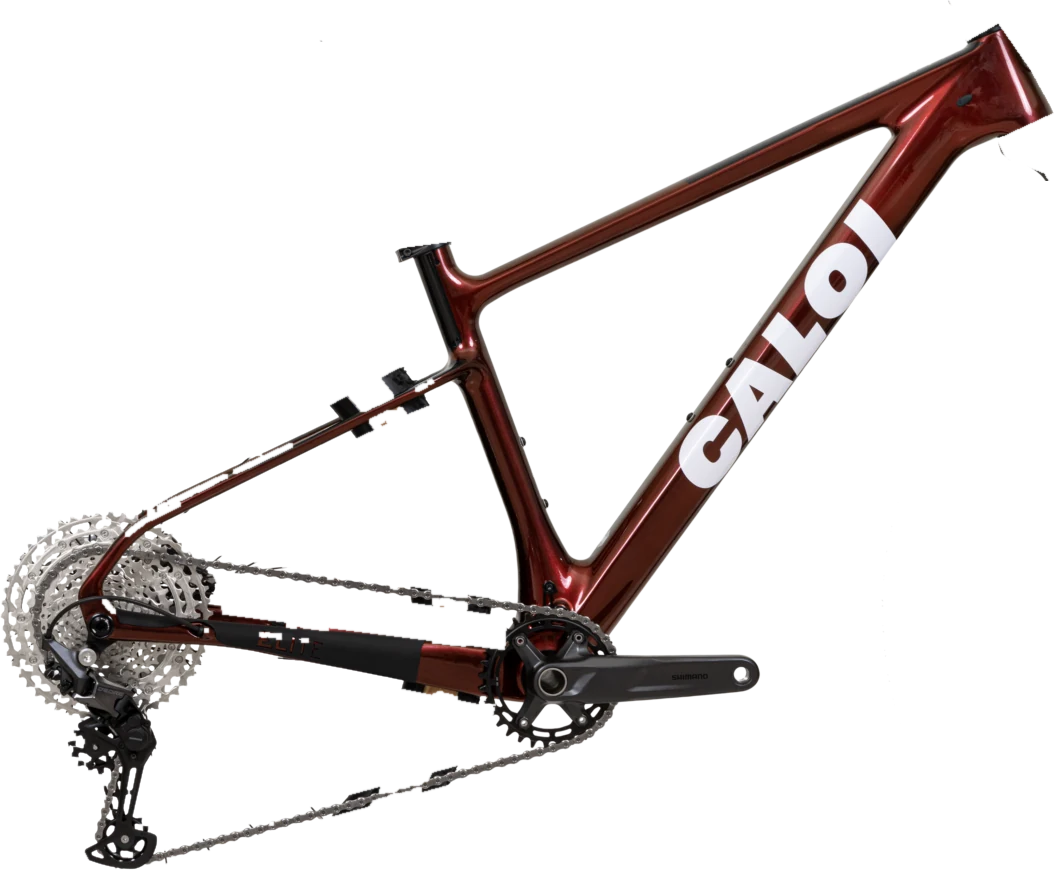
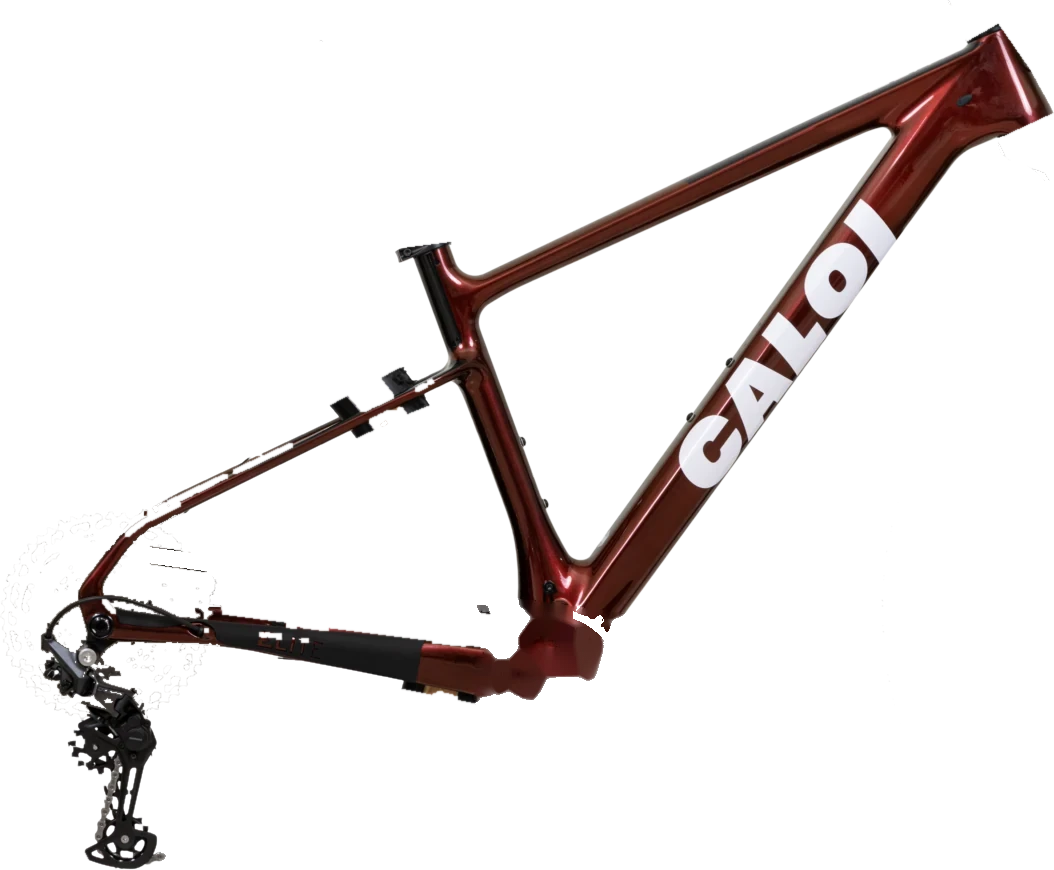
Transmissao animada: coroa e corrente giram, cassete com giro em velocidade, pedivela parado

Changed region(s): [[0.0, 0.5897, 0.7287, 0.9621], [0.1518, 0.9621, 0.2125, 0.9931]]

diff --git a/atual/assets/cena.js b/atual/assets/cena.js
@@ -17,6 +17,7 @@
   if (!gsap || !ST) {
     html.classList.add('sem-movimento');
     if (ab) ab.remove();
+    var dz = transmissao(); if (dz) dz(0, true);
     return;
   }
   gsap.registerPlugin(ST);
@@ -72,7 +73,7 @@
   /* rodas: o giro segue a distância percorrida; a versão borrada entra com a velocidade */
   function rodas() {
     var rg = $$('.parte.roda .g'), giros = $$('.parte.roda .giro'), coroa = $('.coroa-fundo');
-    var ult = 0, suave = 0;
+    var ult = 0, suave = 0, tr = transmissao();
     var setR = rg.map(function (el) { return gsap.quickSetter(el, 'rotation', 'deg'); });
     var setC = gsap.quickSetter(coroa, 'rotation', 'deg');
     var setO = giros.map(function (el) { return gsap.quickSetter(el, 'opacity'); });
@@ -82,10 +83,98 @@
       suave += (dv - suave) * 0.22;
       estado.vel = suave;
       setR.forEach(function (s) { s(a); });
+      if (tr) tr(a);
       setC(-a * 0.16);
       var o = Math.max(0, Math.min(1, (suave - 2.4) / 9));
       setO.forEach(function (s) { s(o); }); setN.forEach(function (s) { s(1 - o * 0.92); });
     });
+  }
+
+  /* transmissão: coroa, pedivela, pedais e corrente andando junto com a roda de trás.
+     Coordenadas da camada do quadro (1054x870, canvas com 960 de altura para o pedal não cortar). */
+  function transmissao() {
+    var fr = $('.tr-frente'), at = $('.tr-atras'); if (!fr || !at) return null;
+    var cf = fr.getContext('2d'), ca = at.getContext('2d'), W = fr.width, H = fr.height;
+    var C = [552.1, 681.2], RC = 66.5, RCOG = 78.5, PASSO = 13.125, ALT = 16;
+    var BR = 194.0, A0 = -1.83 * Math.PI / 180;               // pedivela: centro até o olho do pedal
+    var P0 = [150, 554.8], P3 = [160, 855.0];                 // pontas da corrente que anda (cassete e roldana)
+    function tang(P, cima) {
+      var dx = P[0] - C[0], dy = P[1] - C[1], d = Math.hypot(dx, dy), b = Math.atan2(dy, dx), g = Math.acos(RC / d);
+      var t1 = b + g, t2 = b - g, y1 = C[1] + RC * Math.sin(t1), y2 = C[1] + RC * Math.sin(t2);
+      return (cima ? y1 < y2 : y1 > y2) ? t1 : t2;
+    }
+    var th1 = tang(P0, true), th2 = tang(P3, false);
+    var T1 = [C[0] + RC * Math.cos(th1), C[1] + RC * Math.sin(th1)], T2 = [C[0] + RC * Math.cos(th2), C[1] + RC * Math.sin(th2)];
+    var L1 = Math.hypot(T1[0] - P0[0], T1[1] - P0[1]), d1 = [(T1[0] - P0[0]) / L1, (T1[1] - P0[1]) / L1];
+    var arco = th2 - th1; while (arco < 0) arco += Math.PI * 2;
+    var LA = arco * RC, L2 = Math.hypot(P3[0] - T2[0], P3[1] - T2[1]), d2 = [(P3[0] - T2[0]) / L2, (P3[1] - T2[1]) / L2];
+    var LT = L1 + LA + L2;
+    function ponto(u) {
+      if (u < L1) return [P0[0] + d1[0] * u, P0[1] + d1[1] * u];
+      if (u < L1 + LA) { var t = th1 + (u - L1) / RC; return [C[0] + RC * Math.cos(t), C[1] + RC * Math.sin(t)]; }
+      u -= L1 + LA; return [T2[0] + d2[0] * u, T2[1] + d2[1] * u];
+    }
+    var nomes = ['coroa', 'coroa-giro', 'pedivela', 'corrente', 'corrente-giro', 'cassete', 'cassete-giro'], im = {}, faltam = nomes.length, ok = false;
+    nomes.forEach(function (n) {
+      var i = new Image(); i.decoding = 'async';
+      i.onload = function () { if (--faltam === 0) { ok = true; desenha(ultA, true); } };
+      i.src = 'assets/cena/' + n + '.webp?v=2'; im[n] = i;
+    });
+    function pedal(c, x, y, fundo) {
+      c.save(); c.translate(x, y);
+      var g = c.createLinearGradient(0, -8, 0, 8);
+      if (fundo) { g.addColorStop(0, '#15171a'); g.addColorStop(1, '#0b0c0e'); }
+      else { g.addColorStop(0, '#34383f'); g.addColorStop(0.45, '#16181c'); g.addColorStop(1, '#262a30'); }
+      c.fillStyle = fundo ? '#0d0e10' : '#2b2f35';
+      for (var k = -3; k <= 3; k++) { if (!k) continue; var px = k * 12.5 - 1.2; c.fillRect(px, -10.5, 2.4, 3); c.fillRect(px, 7.5, 2.4, 3); }
+      c.beginPath(); c.moveTo(-44, -5); c.quadraticCurveTo(-44, -8, -40, -8); c.lineTo(40, -8); c.quadraticCurveTo(44, -8, 44, -5);
+      c.lineTo(44, 5); c.quadraticCurveTo(44, 8, 40, 8); c.lineTo(-40, 8); c.quadraticCurveTo(-44, 8, -44, 5); c.closePath();
+      c.fillStyle = g; c.fill();
+      if (!fundo) { c.strokeStyle = 'rgba(255,255,255,.10)'; c.lineWidth = 1; c.stroke(); }
+      c.beginPath(); c.arc(0, 0, 5.5, 0, Math.PI * 2); c.fillStyle = fundo ? '#1c1e21' : '#8d939b'; c.fill();
+      c.beginPath(); c.arc(0, 0, 2.2, 0, Math.PI * 2); c.fillStyle = fundo ? '#0b0c0e' : '#3a3e44'; c.fill();
+      c.restore();
+    }
+    function sprite(c, img, cx, cy, ang, ox, oy) {
+      c.save(); c.translate(cx, cy); c.rotate(ang); c.drawImage(img, -ox, -oy); c.restore();
+    }
+    function corrente(c, s, tile, alfa) {
+      var n0 = Math.floor(s / PASSO), fr0 = s - n0 * PASSO, hw = tile.width / 2;
+      c.save(); c.globalAlpha = alfa;
+      c.beginPath(); c.rect(147, 0, W, 745); c.rect(157, 745, W, H - 745); c.clip();
+      for (var k = -1; k * PASSO < LT + PASSO; k++) {
+        var u = k * PASSO + fr0, a = ponto(u), b = ponto(u + PASSO);
+        var g = k - n0, par = ((g % 2) + 2) % 2;
+        c.save(); c.translate(a[0], a[1]); c.rotate(Math.atan2(b[1] - a[1], b[0] - a[0]));
+        c.drawImage(tile, par * hw, 0, hw, tile.height, 0, -ALT / 2, Math.hypot(b[0] - a[0], b[1] - a[1]) + 0.6, ALT);
+        c.restore();
+      }
+      c.restore();
+    }
+    var ultA = 0, ultD = null, suave = 0;
+    function desenha(a, forca) {
+      if (!ok) { ultA = a; return; }
+      var dv = Math.abs(a - ultA); ultA = a; suave += (dv - suave) * 0.22;
+      if (!forca && a === ultD && suave < 0.01) return;
+      ultD = a;
+      var o = Math.max(0, Math.min(1, (suave - 2.4) / 9));
+      var s = a * Math.PI / 180 * RCOG, fi = s / RC;            // fi: ângulo da coroa (rad)
+      var dfi = suave * Math.PI / 180 * RCOG / RC;
+      cf.clearRect(0, 0, W, H); ca.clearRect(0, 0, W, H);
+      // cassete (atrás do quadro e do câmbio): a foto parada; com velocidade, o borrão de giro
+      ca.globalAlpha = 1 - o; ca.drawImage(im.cassete, 0, 488);
+      if (o > 0) { ca.globalAlpha = o; ca.drawImage(im['cassete-giro'], 0, 488); }
+      ca.globalAlpha = 1;
+      // pedivela e pedal ficam parados, como na foto; só a coroa e a corrente andam
+      cf.globalAlpha = 1 - o * 0.85; sprite(cf, im.coroa, C[0], C[1], fi, 80, 80);
+      if (o > 0) { cf.globalAlpha = o; sprite(cf, im['coroa-giro'], C[0], C[1], fi, 80, 80); }
+      cf.globalAlpha = 1;
+      if (o < 1) corrente(cf, s, im.corrente, 1);
+      if (o > 0) corrente(cf, 0, im['corrente-giro'], o);
+      sprite(cf, im.pedivela, C[0], C[1], 0, 230.1, 230.2);
+      pedal(cf, C[0] + BR * Math.cos(A0), C[1] + BR * Math.sin(A0), false);
+    }
+    return desenha;
   }
 
   /* palavra que gira no título (Text Rotate) */

diff --git a/atual/index.html b/atual/index.html
@@ -14,12 +14,16 @@
 <link rel="preload" href="assets/fontes/barlow-condensed-latin-800-italic.woff2" as="font" type="font/woff2" crossorigin>
 <link rel="preload" href="assets/fontes/inter-latin-400-normal.woff2" as="font" type="font/woff2" crossorigin>
 <link rel="stylesheet" href="assets/site.css">
-<link rel="stylesheet" href="assets/cena.css?v=7">
-<link rel="preload" as="image" href="assets/cena/quadro.webp">
+<link rel="stylesheet" href="assets/cena.css?v=10">
+<link rel="preload" as="image" href="assets/cena/quadro.webp?v=5">
+<link rel="preload" as="image" href="assets/cena/cassete.webp?v=2">
+<link rel="preload" as="image" href="assets/cena/coroa.webp?v=2">
+<link rel="preload" as="image" href="assets/cena/pedivela.webp?v=2">
+<link rel="preload" as="image" href="assets/cena/corrente.webp?v=2">
 <script src="assets/vendor/gsap.min.js" defer></script>
 <script src="assets/vendor/ScrollTrigger.min.js" defer></script>
 <script src="assets/vendor/lenis.min.js" defer></script>
-<script src="assets/cena.js?v=4" defer></script>
+<script src="assets/cena.js?v=8" defer></script>
 <script src="assets/app.js" defer></script>
 </head>
 <body>
@@ -67,7 +71,7 @@
           <a class="rot rot-rt" href="https://6afee227e12ae1f82abc1a2f--impactobike.netlify.app/c/pecas/rodas-e-pneus/"><b>Rodas e pneus</b><span>137 produtos →</span></a></div>
         <div class="parte roda" id="p-rf"><img src="assets/cena/roda-frente.webp?v=7" alt="" class="g" width="840" height="840"><img src="assets/cena/roda-frente-giro.webp?v=7" alt="" class="g giro" width="840" height="840"><img src="assets/cena/disco-frente.webp?v=6" alt="" class="fixo" width="840" height="840">
           <a class="rot rot-rf" href="https://6afee227e12ae1f82abc1a2f--impactobike.netlify.app/c/pecas/freios/"><b>Freios e discos</b><span>165 produtos →</span></a></div>
-        <div class="parte" id="p-qd"><img src="assets/cena/quadro.webp" alt="Bicicleta de carbono vinho com transmissão Shimano" width="1054" height="870">
+        <div class="parte" id="p-qd"><canvas class="tr tr-atras" width="1054" height="960" aria-hidden="true"></canvas><img src="assets/cena/quadro.webp?v=5" alt="Bicicleta de carbono vinho com transmissão Shimano" width="1054" height="870"><canvas class="tr tr-frente" width="1054" height="960" aria-hidden="true"></canvas>
           <a class="rot rot-qd1" href="https://6afee227e12ae1f82abc1a2f--impactobike.netlify.app/c/pecas/quadros-e-suspensoes/"><b>Quadros e suspensões</b><span>29 produtos →</span></a>
           <a class="rot rot-qd2" href="https://6afee227e12ae1f82abc1a2f--impactobike.netlify.app/c/pecas/transmissao/"><b>Transmissão Shimano</b><span>451 produtos →</span></a></div>
         <div class="parte" id="p-fr"><img src="assets/cena/frente.webp?v=6" alt="" width="377" height="760">

diff --git a/atual/assets/cena.css b/atual/assets/cena.css
@@ -50,6 +50,9 @@ html.lenis,html.lenis body{height:auto}
 .parte .g{position:absolute;inset:0;height:100%}
 .parte.roda{aspect-ratio:1}
 .parte .giro{opacity:0}
+#p-qd>img{position:relative;z-index:1}
+.parte .tr{position:absolute;left:0;top:0;width:100%;height:110.345%;pointer-events:none}
+.tr-atras{z-index:0}.tr-frente{z-index:2}
 .parte .fixo{position:absolute;inset:0;width:100%;height:100%}
 #p-rt{left:.537%;top:31.575%;width:41.016%}
 #p-rf{left:57.91%;top:31.355%;width:41.016%}
